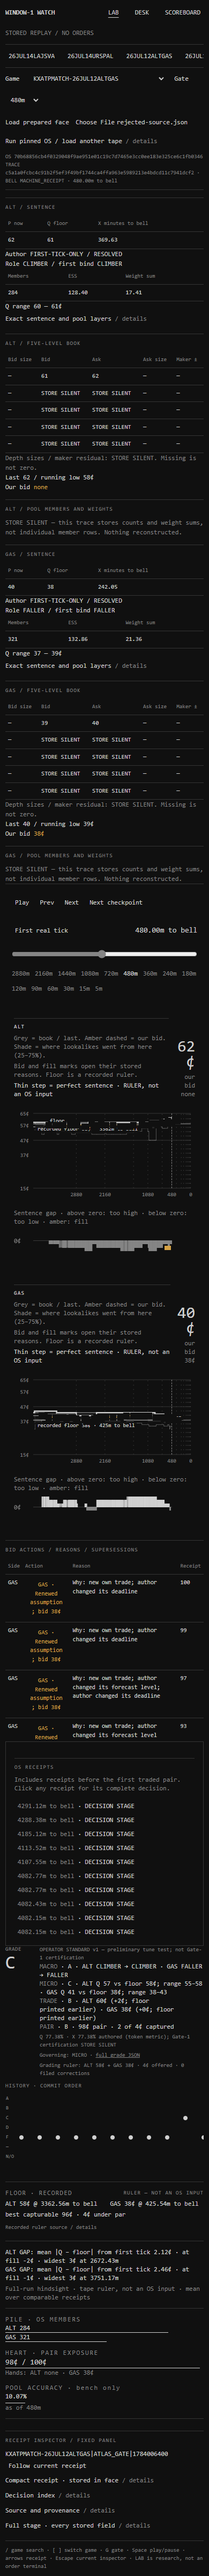
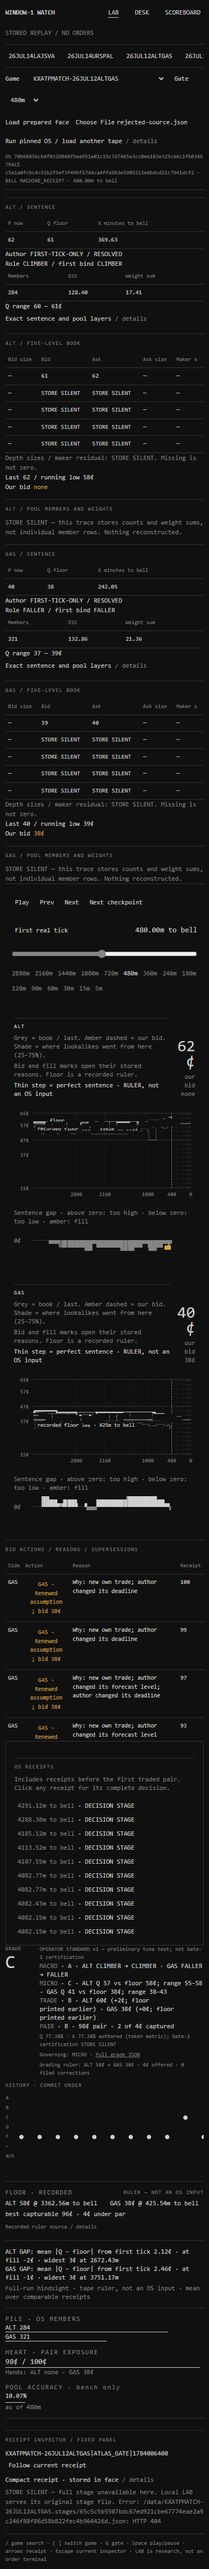
face v3: verified static preview and production branch binding

diff --git a/window1-watch/docs/face-v3/DEPLOYMENT_RECEIPT.md b/window1-watch/docs/face-v3/DEPLOYMENT_RECEIPT.md
@@ -1,0 +1,13 @@
+# FACE v3 deployment
+
+Public preview verified on 2026-09-12 without login:
+
+https://omi-window1-watch-dggdsxoyo-omi-groups-projects.vercel.app/?tab=lab&event=KXATPMATCH-26JUL12ALTGAS&gate=480
+
+Deployment: `dpl_3q4SkRQQB97rUiJeUvQxcz48esKY`, READY, preview target. It contains only the reviewed static output. The upload directory is content-addressed to prevent retaining stale bundles.
+
+VERIFY_HOSTED.json: all five grades and face hashes match local inputs; two oracle paths and gap strips per game; bid-card reasons; fixed receipt inspection; game/gate keyboard shortcuts; prepared-face import/source rejection; all three tabs; zero JavaScript page errors. The three `*-built.png` desktop screenshots now show this actual public preview, not a mockup.
+
+Project: `omi-window1-watch`, root `window1-watch/shell`, `npm run build:demo`, `dist-demo`, Node 24.x. Configured project environment-variable list is empty. Git connection and branch read back successfully: `OMIGROUPOPS/Omi-Workspace`, production `face/window1-watch-20260903`. Stable assigned domain: https://omi-window1-watch.vercel.app. The old obm10302k URL remains an immutable older preview; use the current preview or verified stable deployment.
+
+No engine/OS, tape, grade or rubric changes. DESK remains disconnected. Raw-tape LAB execution is not yet connected; full original stage/renewal streams remain local. These limits are described in BUILD_RECEIPT.md and on the page.
